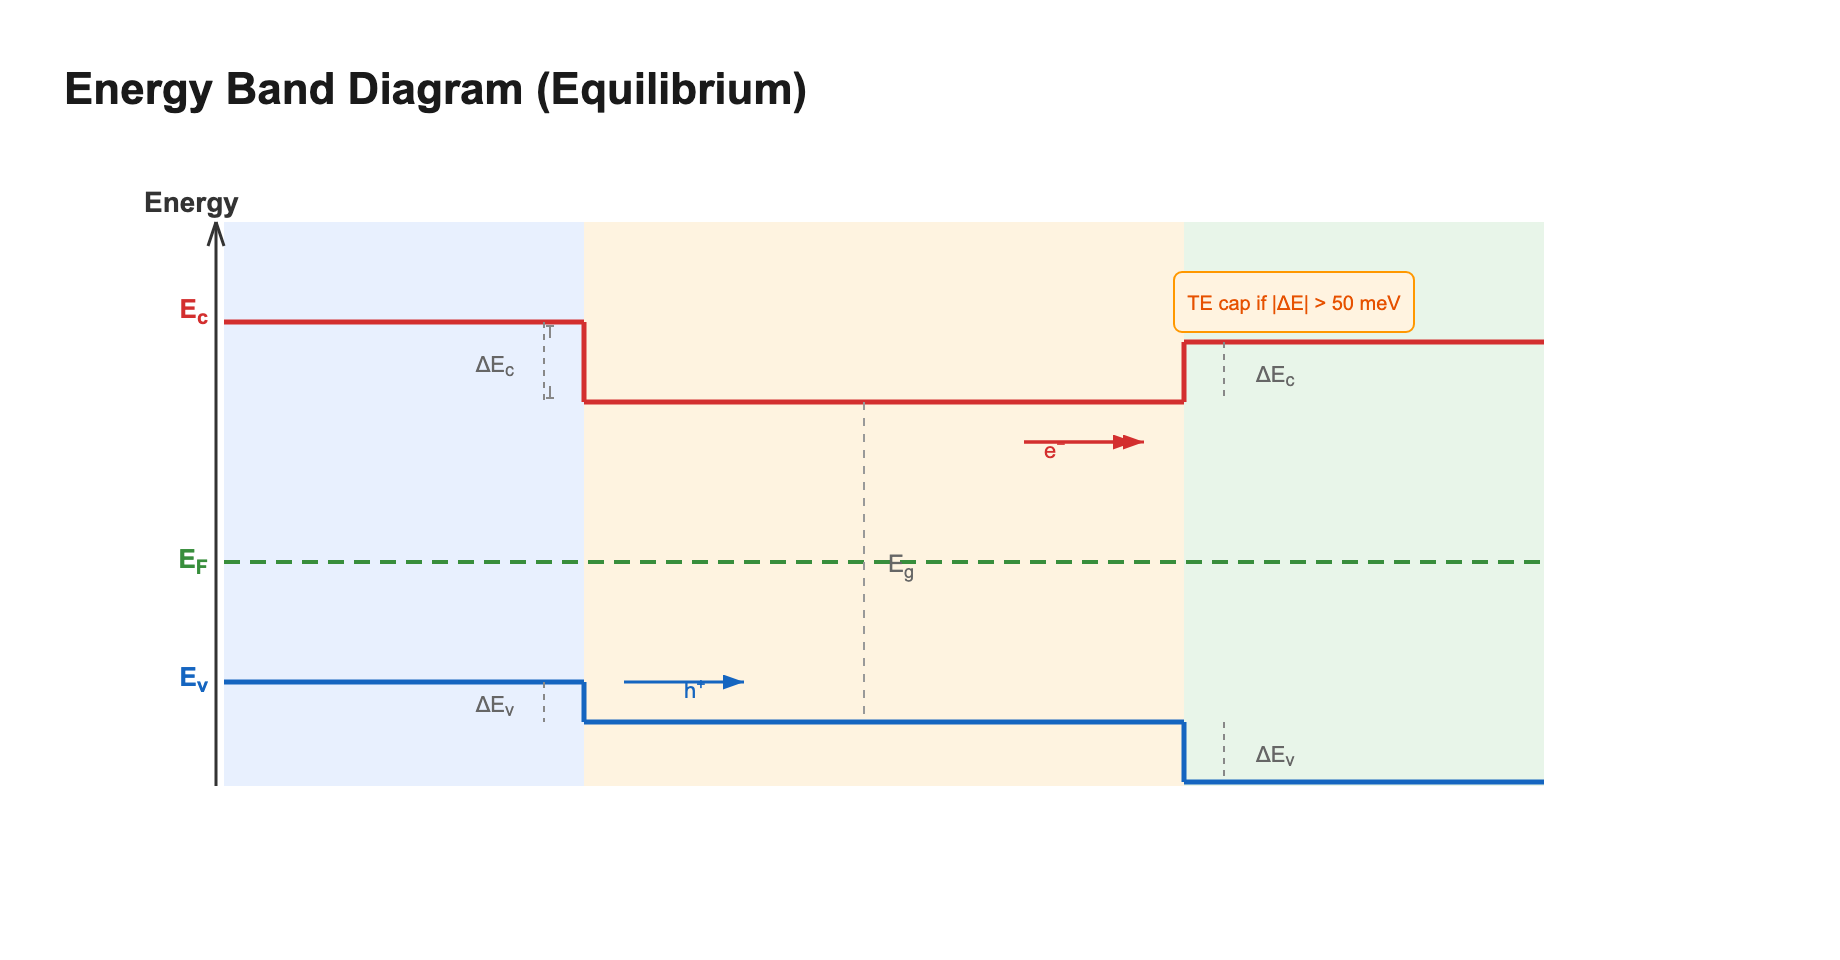
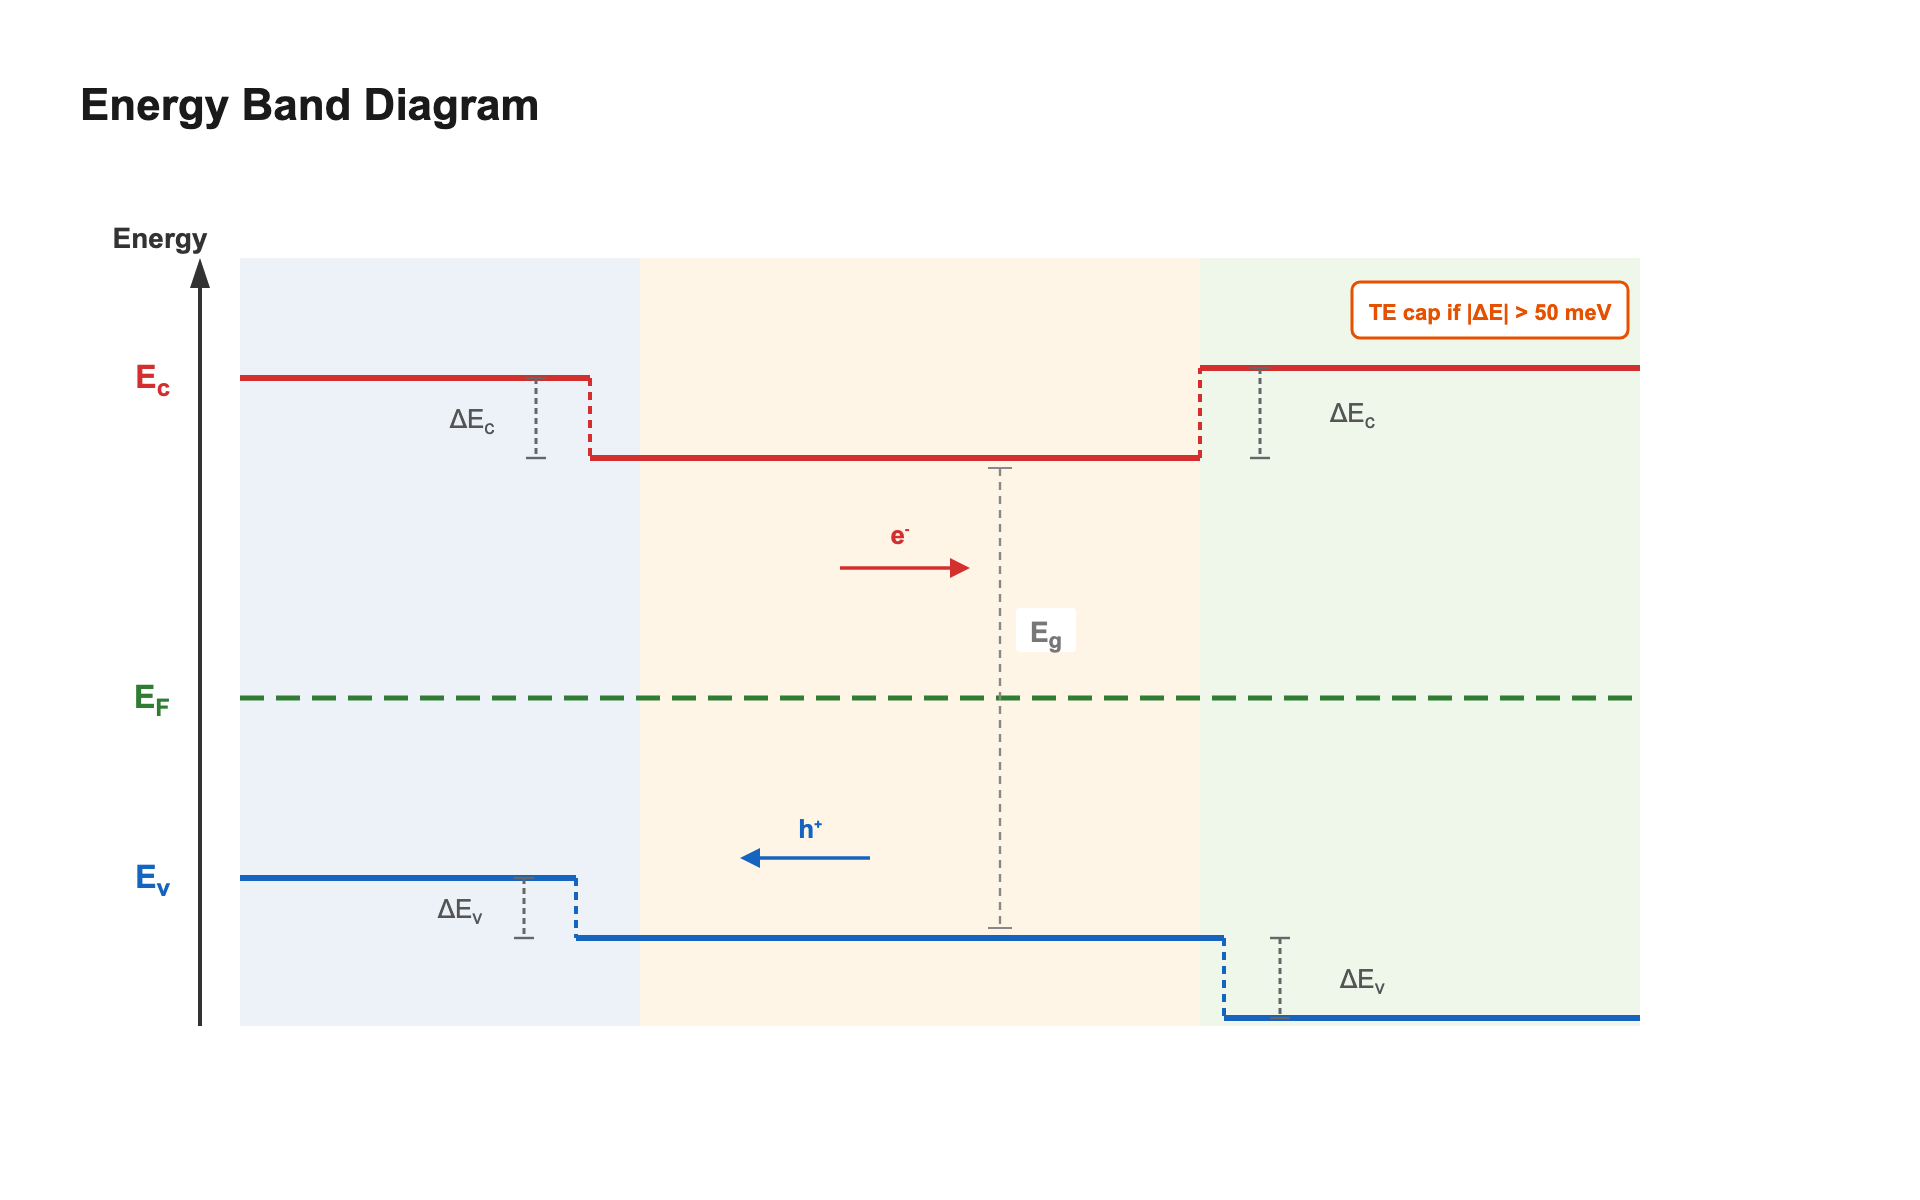
fix(docs): rebuild band diagram with no overlapping labels
Move Eg label above Fermi level line with white background,
space out ΔEc/ΔEv annotations from band edges, and separate
carrier arrows from band lines.

Changed region(s): [[0.062, 0.1875, 0.8674, 0.875], [0.031, 0.0625, 0.4337, 0.125], [0.4337, 0.4688, 0.5266, 0.5]]

diff --git a/README.md b/README.md
@@ -211,7 +211,7 @@ print(f"Hysteresis index: {result.hysteresis_index:.3f}")
 </p>
 
 <p align="center">
-  <img src="perovskite-sim/docs/images/band_diagram.png?v=2" alt="Energy Band Diagram" width="700">
+  <img src="perovskite-sim/docs/images/band_diagram.png?v=3" alt="Energy Band Diagram" width="700">
 </p>
 
 <p align="center">

diff --git a/perovskite-sim/README.md b/perovskite-sim/README.md
@@ -74,7 +74,7 @@ produce current.
 </p>
 
 <p align="center">
-  <img src="docs/images/band_diagram.png?v=2" alt="Energy Band Diagram" width="700">
+  <img src="docs/images/band_diagram.png?v=3" alt="Energy Band Diagram" width="700">
 </p>
 
 <p align="center">
